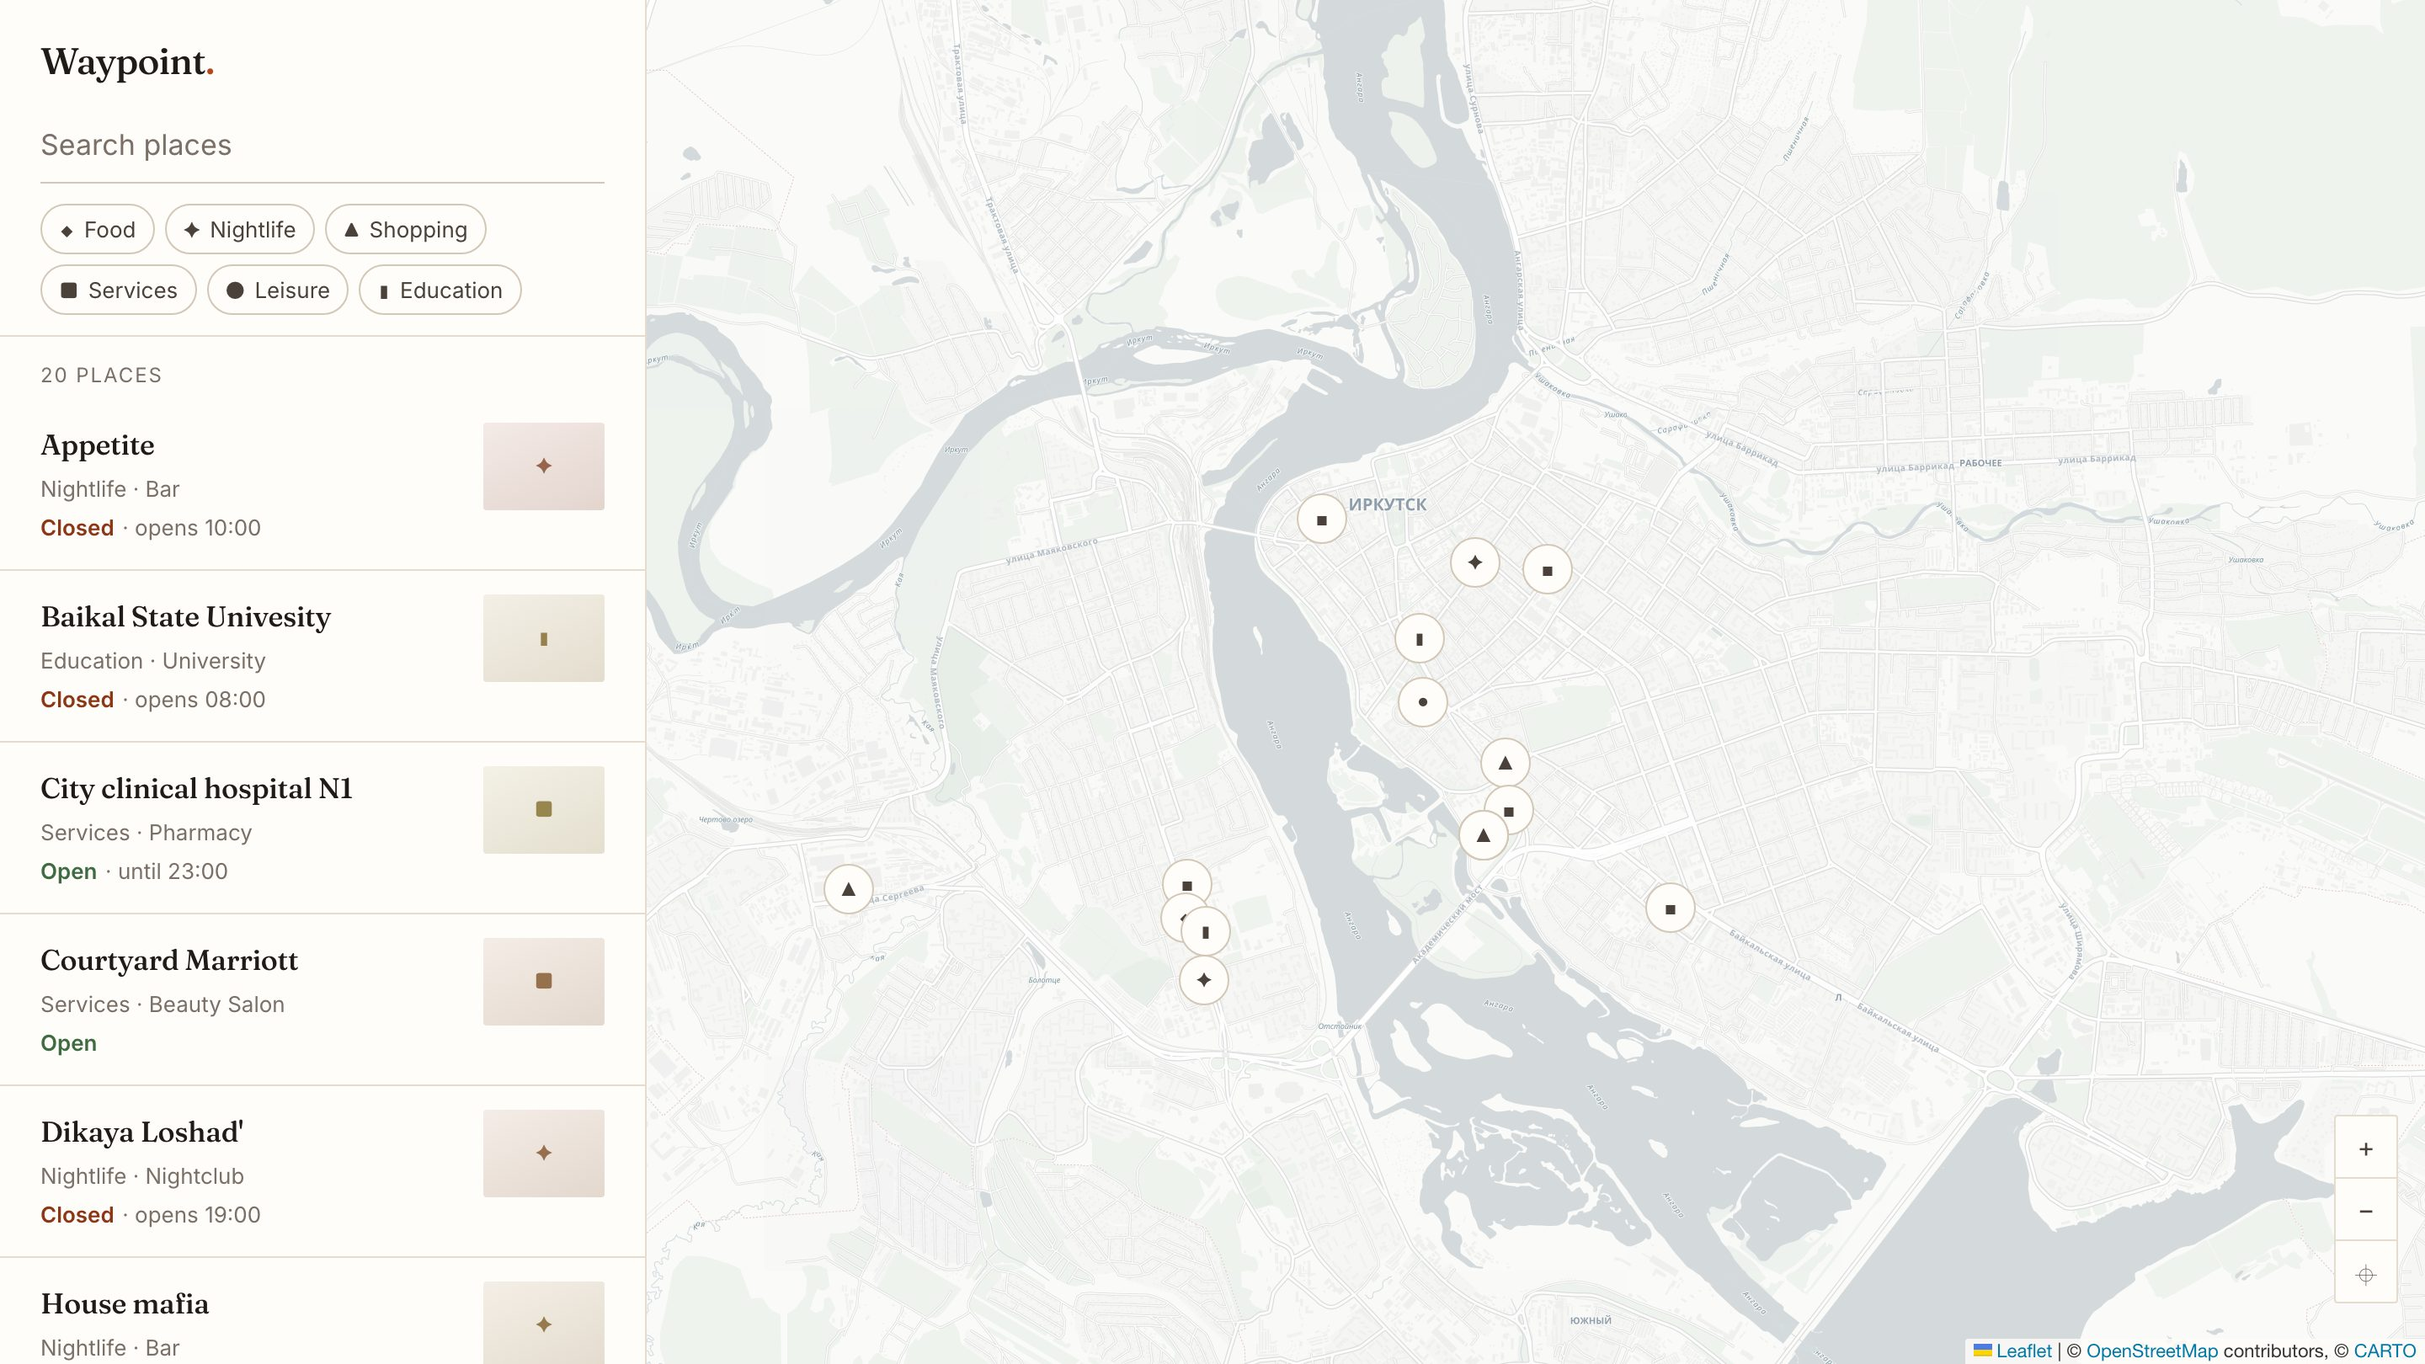
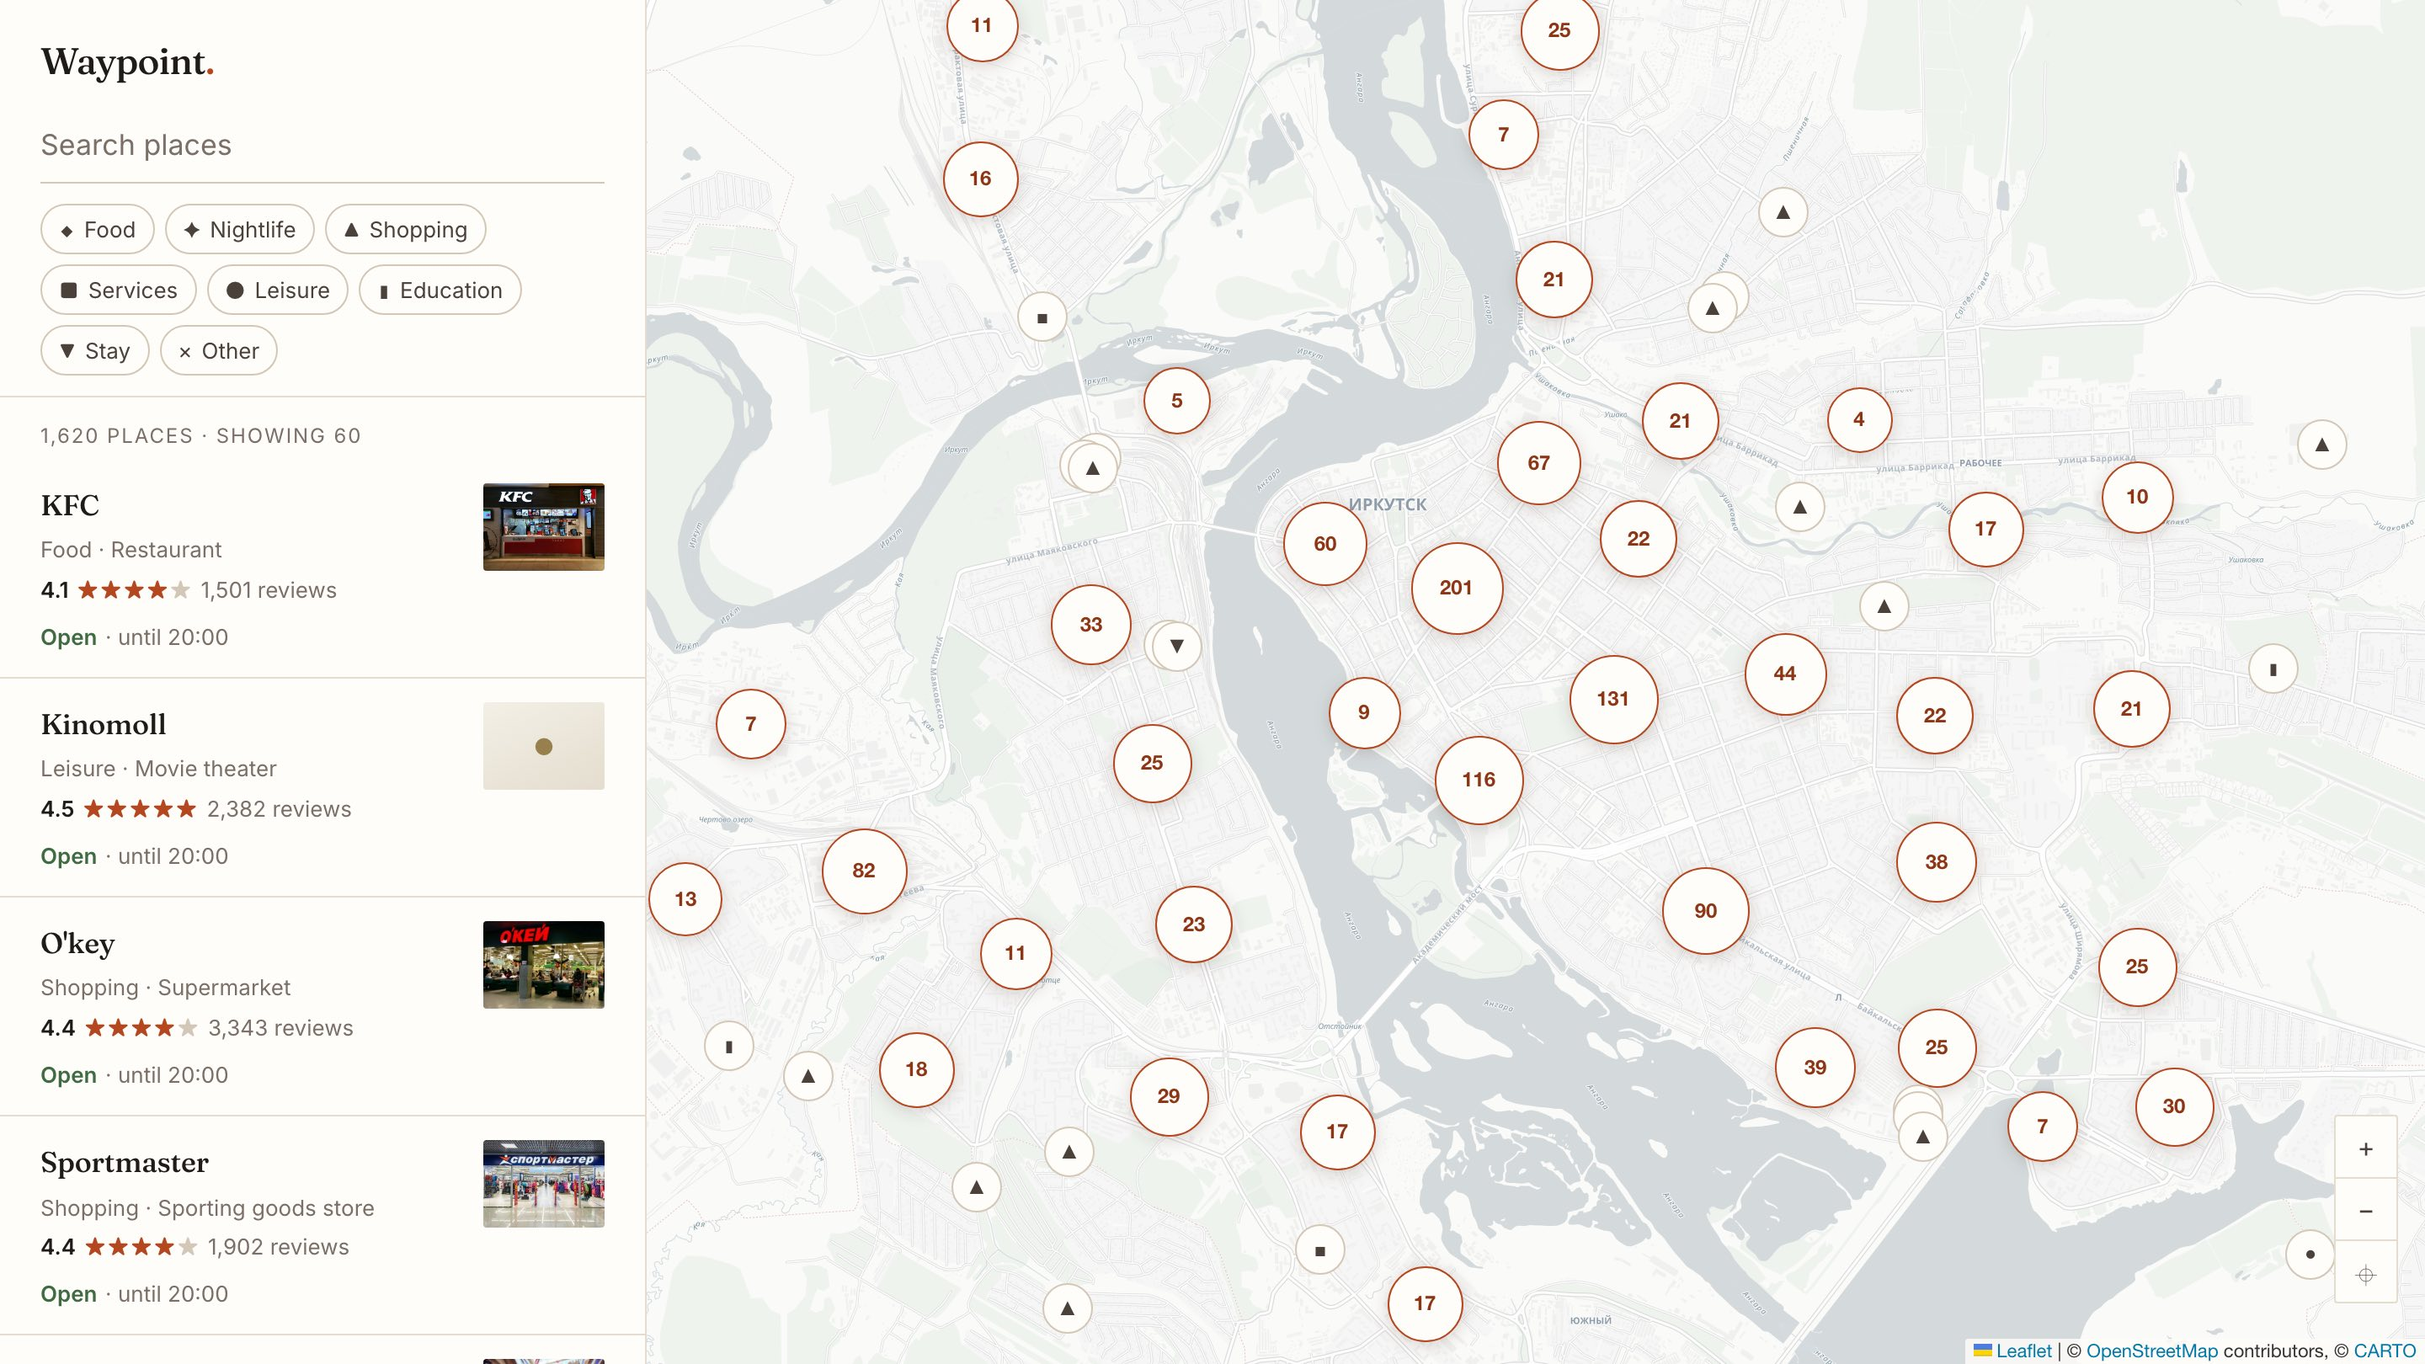
Cover clustering in the browser suite, and refresh the README
The e2e suite asserted twenty markers for twenty places. It now covers
what replaced that: the full set clustering instead of drawing every pin,
a small result set staying pin-per-place, a cluster coming apart when
clicked, and a deep link keeping its pin when a cluster would have
swallowed it.

README gains where the data comes from, and why this is not MapLibre —
measured rather than assumed: Leaflet with DOM markers holds a frame up
to about a thousand pins, and past that the answer is to draw fewer, not
to draw them faster.

diff --git a/e2e/waypoint.spec.ts b/e2e/waypoint.spec.ts
@@ -2,46 +2,79 @@ import { expect, test, type Page } from "@playwright/test";
 
 /**
  * Runs against the production build with no .env, so the dataset is the
- * bundled fixtures and every run sees the same 20 places. What is worth
- * testing here rather than in jsdom is the part that needs a real browser:
- * Leaflet actually rendering tiles and markers, and the marker layer staying
- * in step with the list.
+ * bundled fixtures: 1,620 places, of which 20 are the hand-entered ones that
+ * carry photos and reviews. What is worth testing here rather than in jsdom is
+ * the part that needs a real browser — Leaflet rendering tiles, clusters and
+ * markers, and the marker layer staying in step with the list.
  */
 
 const markers = (page: Page) => page.locator(".leaflet-marker-icon");
+const clusters = (page: Page) => page.getByRole("img", { name: /^Cluster of/ });
 const results = (page: Page) => page.getByRole("listitem");
+
+const search = (page: Page) => page.getByRole("searchbox", { name: /search places/i });
 
 test.beforeEach(async ({ page }) => {
   await page.goto("/");
-  await expect(page.getByText("20 places")).toBeVisible();
+  await expect(page.getByText(/1,620 places/)).toBeVisible();
 });
 
-test("renders a map with a marker for every place", async ({ page }) => {
+test("clusters the full dataset instead of drawing every pin", async ({ page }) => {
   await expect(page.locator(".leaflet-tile-loaded").first()).toBeVisible();
-  await expect(markers(page)).toHaveCount(20);
-  await expect(results(page)).toHaveCount(20);
+  await expect(clusters(page).first()).toBeVisible();
+
+  // The point of clustering: the DOM holds a marker per visible symbol, not
+  // one per place in the dataset. The exact number moves with the viewport, so
+  // what is asserted is the order of magnitude.
+  expect(await markers(page).count()).toBeLessThan(1620 / 8);
+});
+
+test("the panel lists a readable page of a large result set", async ({ page }) => {
+  await expect(results(page)).toHaveCount(60);
+  await expect(page.getByText(/more on the map/i)).toBeVisible();
+});
+
+test("clicking a cluster opens it up", async ({ page }) => {
+  const before = await clusters(page).count();
+  await clusters(page).first().click();
+
+  // Zooming in splits that cluster, so the map ends up showing more symbols.
+  await expect
+    .poll(async () => (await clusters(page).count()) + (await markers(page).count()))
+    .toBeGreaterThan(before);
 });
 
 test("search narrows the list and the markers together", async ({ page }) => {
-  await page.getByRole("searchbox", { name: /search places/i }).fill("trendy");
+  await search(page).fill("trendy quarter");
 
   await expect(page.getByText("1 place", { exact: true })).toBeVisible();
   await expect(results(page)).toHaveCount(1);
   await expect(markers(page)).toHaveCount(1);
 });
 
+test("a small result set is drawn pin by pin, with no clusters", async ({ page }) => {
+  await search(page).fill("museum");
+
+  const count = await results(page).count();
+  expect(count).toBeGreaterThan(1);
+  await expect(clusters(page)).toHaveCount(0);
+  await expect(markers(page)).toHaveCount(count);
+});
+
 test("a category chip filters to that category", async ({ page }) => {
   const filters = page.getByRole("group", { name: /filter by category/i });
   await filters.getByRole("button", { name: /education/i }).click();
 
-  await expect(results(page)).toHaveCount(2);
-  await expect(markers(page)).toHaveCount(2);
+  await expect(page.getByText(/^\d+ places$/)).toBeVisible();
+  const count = await results(page).count();
+  expect(count).toBeGreaterThan(0);
+  await expect(page.getByText(/education/i).first()).toBeVisible();
 });
 
 test("clicking a marker opens the place and updates the address bar", async ({
   page,
 }) => {
-  await page.getByRole("searchbox", { name: /search places/i }).fill("yarkomoll");
+  await search(page).fill("yarkomoll");
   await markers(page).first().click();
 
   await expect(page.getByRole("heading", { name: "Yarkomoll" })).toBeVisible();
@@ -53,6 +86,15 @@ test("a shared link opens straight into the place", async ({ page }) => {
 
   await expect(page.getByRole("heading", { name: "Kinomoll" })).toBeVisible();
   await expect(page.getByText(/movie theater/i)).toBeVisible();
+});
+
+test("an imported place keeps its pin even inside a cluster", async ({ page }) => {
+  // Deep-linking to a place the cluster would have swallowed must still leave
+  // something selected on the map.
+  await page.goto("/?place=osm-n2918849719");
+
+  await expect(page.getByRole("heading", { name: /Биг Бен/ })).toBeVisible();
+  await expect(page.getByRole("img", { name: /Биг Бен/ })).toBeVisible();
 });
 
 test("saving a place survives a reload", async ({ page }) => {
@@ -72,9 +114,9 @@ test("opening hours are shown for a place that has them", async ({ page }) => {
 });
 
 test("no results offers a way back", async ({ page }) => {
-  await page.getByRole("searchbox", { name: /search places/i }).fill("qqqq");
+  await search(page).fill("qqqq");
   await expect(page.getByText(/nothing here matches/i)).toBeVisible();
 
   await page.getByRole("button", { name: /clear filters/i }).click();
-  await expect(page.getByText("20 places")).toBeVisible();
+  await expect(page.getByText(/1,620 places/)).toBeVisible();
 });

diff --git a/README.md b/README.md
@@ -1,7 +1,8 @@
 # Waypoint
 
 A map client for exploring points of interest, built on **Leaflet** and **OpenStreetMap** data.
-Search, filter by category, and open a place to see its hours, contact details and reviews.
+Search 1,600 places across a city, filter by category, and open one to see its hours, contact
+details and reviews.
 
 **[Live demo](https://g-maps-clone.web.app/)** · React 17 · TypeScript · Redux Toolkit · Vite · Firebase
 
@@ -32,7 +33,7 @@ npm run dev
 ```
 
 That is the whole setup. **No `.env`, no API keys, no Firebase account.** With no configuration
-the app serves a 20-place dataset bundled in `src/data/fixtures/`, and every feature except
+the app serves the 1,620-place dataset bundled in `src/data/fixtures/`, and every feature except
 sign-in works offline.
 
 To read live data from Firestore instead, copy `.env.example` to `.env` and fill it in. The app
@@ -84,19 +85,59 @@ written by an earlier version of it in 2021, and it shows:
 
 All of that lives in `src/data/normalise.ts`. None of it reaches a component.
 
+### Where the data comes from
+
+The twenty hand-entered places carry the photos, ratings and reviews. The rest of the map — 1,600
+cafés, shops, clinics, schools and hotels — is imported from OpenStreetMap by
+`scripts/import-osm.mjs`, which queries Overpass, maps OSM tags on to the app's own types, and
+rewrites the fixture. Re-running it leaves the hand-entered rows alone.
+
+Two decisions in there are worth naming:
+
+- **Opening hours are parsed, not passed through.** OSM stores them as a small language
+  (`Mo-Fr 08:00-13:00,14:00-20:00; Su off`). `scripts/opening-hours.mjs` reads the subset this
+  app can represent and **rejects the rest** rather than approximating it — a place whose hours
+  cannot be stated exactly shows none. It has its own test suite.
+- **The city's mix is preserved.** Trimming 3,600 candidates to 1,600 by data quality alone would
+  have handed the map to whoever fills in their phone number: shops would have grown from 48% of
+  the city to 57%, and schools would have all but disappeared. Each kind keeps its share of the
+  budget and competes only against its own kind.
+
+Ratings are left empty on imported places. OSM has none, and inventing them would make every
+other number in the app suspect.
+
 ### The map layer
 
 Leaflet is driven directly rather than through `react-leaflet`:
 
-- **Markers are diffed by id.** Filtering the list touches only the pins that appeared or
-  disappeared; changing the selection repaints exactly two icons rather than every marker.
+- **Only what is on screen exists.** [Supercluster](https://github.com/mapbox/supercluster)
+  answers with the clusters and loose pins for the current viewport, so the DOM holds ~60 markers
+  instead of 1,620. Below 60 results clustering switches off entirely — a filtered list should
+  read literally, five results and five pins.
+- **Markers are diffed by key.** Panning touches only the pins that entered or left the viewport;
+  changing the selection repaints exactly two icons rather than rebuilding the layer.
 - **The map's lifetime follows its DOM node,** via a ref callback with a cleanup function, not an
   effect that has to synchronise state on mount.
 - **Pins are `divIcon`s,** so there is no image sprite to bundle, no broken icon paths, and the
-  markers are styled from the same CSS as everything else.
+  markers are styled from the same CSS as everything else. Leaflet only forwards its `alt` option
+  to image icons, so the accessible name is written into the icon markup instead — with the place
+  name escaped, because it is third-party data.
 
-One dependency fewer, and the imperative/declarative boundary sits in one file
-(`useMarkerLayer.ts`) instead of being spread across components.
+One dependency fewer than `react-leaflet`, and the imperative/declarative boundary sits in one
+file (`useMarkerLayer.ts`) instead of being spread across components.
+
+### Why not MapLibre
+
+MapLibre GL renders on the GPU and would hold ten times this dataset without clustering at all.
+It was measured rather than assumed: **Leaflet with DOM markers stays under one frame up to about
+1,000 pins**, and past that the fix is to draw fewer of them, not to draw them faster. Clustering
+supplies that, and it is a legibility requirement before it is a performance one — 1,620 pins over
+one city is unreadable however fast it paints.
+
+Against that, MapLibre costs roughly five times the bundle, needs a vector tile source (the
+key-free raster basemap here is one URL template), and needs WebGL — which headless CI does not
+reliably have. The trade only starts paying at tens of thousands of points, or when the map needs
+tilt, rotation or data-driven styling. None of that is on this map.
 
 ![A place, with hours, contact details and reviews](docs/screenshot-place.jpg)
 
@@ -105,17 +146,21 @@ One dependency fewer, and the imperative/declarative boundary sits in one file
 | Layer   | Tool                     | What it covers                                                                        |
 | ------- | ------------------------ | ------------------------------------------------------------------------------------- |
 | Domain  | Jest                   | Opening hours across midnight, search ranking, category mapping, schema normalisation |
+| Import  | Jest                   | The OSM opening-hours grammar, including what it refuses to parse                     |
 | App     | Jest + Testing Library | Filtering, selection, deep links, saved places, load failures                         |
-| Browser | Playwright               | Leaflet actually rendering, marker/list sync, mobile sheet                            |
+| Browser | Playwright               | Leaflet actually rendering, clustering, marker/list sync, mobile sheet                |
 
-54 unit tests and 16 browser tests, run on desktop and mobile viewports in CI.
+68 unit tests and 24 browser tests, run on desktop and mobile viewports in CI.
 
 The map is stubbed in the jsdom tests — Leaflet needs real layout and a real canvas, and a test
 that mocks all of that proves nothing. Playwright covers it against the production build instead.
 
 ## Security model
 
-`firestore.rules` and `storage.rules` are in the repository and reviewed like any other change.
+`firestore.rules` and `storage.rules` are in the repository, reviewed like any other change, and
+deployed by CI on every push to `master` — before the app itself, so a release cannot go out
+assuming an access model that failed to land. What is committed here is what the database
+enforces.
 
 | Collection                           | Read   | Write                                      |
 | ------------------------------------ | ------ | ------------------------------------------ |
@@ -131,12 +176,16 @@ and merges into the user's document on sign-in.
 
 ## Notes on the numbers
 
-- 8 runtime dependencies, down from 40. The removed set included `sharp`, `firebase-admin` and
+- 9 runtime dependencies, down from 40. The removed set included `sharp`, `firebase-admin` and
   `firebase-functions` — server-side packages that were never imported — and `node-sass`, which
   made `npm install` fail on any Node newer than 16.
-- ~2,900 lines of application code, down from ~10,900, for a comparable feature set.
-- 137 kB gzipped initial JavaScript. The Firebase SDK is dynamically imported and never enters
-  the bundle when running on fixtures.
+- ~3,100 lines of application code, down from ~10,900, for a wider feature set.
+- 142 kB gzipped initial JavaScript. The dataset (100 kB gzipped) and the Firebase SDK are both
+  dynamically imported; a fixtures build never fetches the SDK at all.
+- First contentful paint 84 ms, pins on screen 143 ms, 10 MB heap. Throttled to a quarter of the
+  CPU on a simulated fast-3G connection, the map is complete in 2.5 s — network-bound, not
+  compute-bound. The heaviest interaction measured, clearing a search and putting all 1,620
+  places back, takes 48 ms; Chrome's threshold for a responsive interaction is 200 ms.
 
 ## What is next
 
@@ -155,4 +204,5 @@ because a faithful copy of Google Maps reads as an embedded Google map no matter
 
 ## Licence
 
-MIT. Map data © OpenStreetMap contributors, tiles © CARTO.
+MIT. Place data and map data © OpenStreetMap contributors ([ODbL](https://www.openstreetmap.org/copyright)),
+tiles © CARTO.
